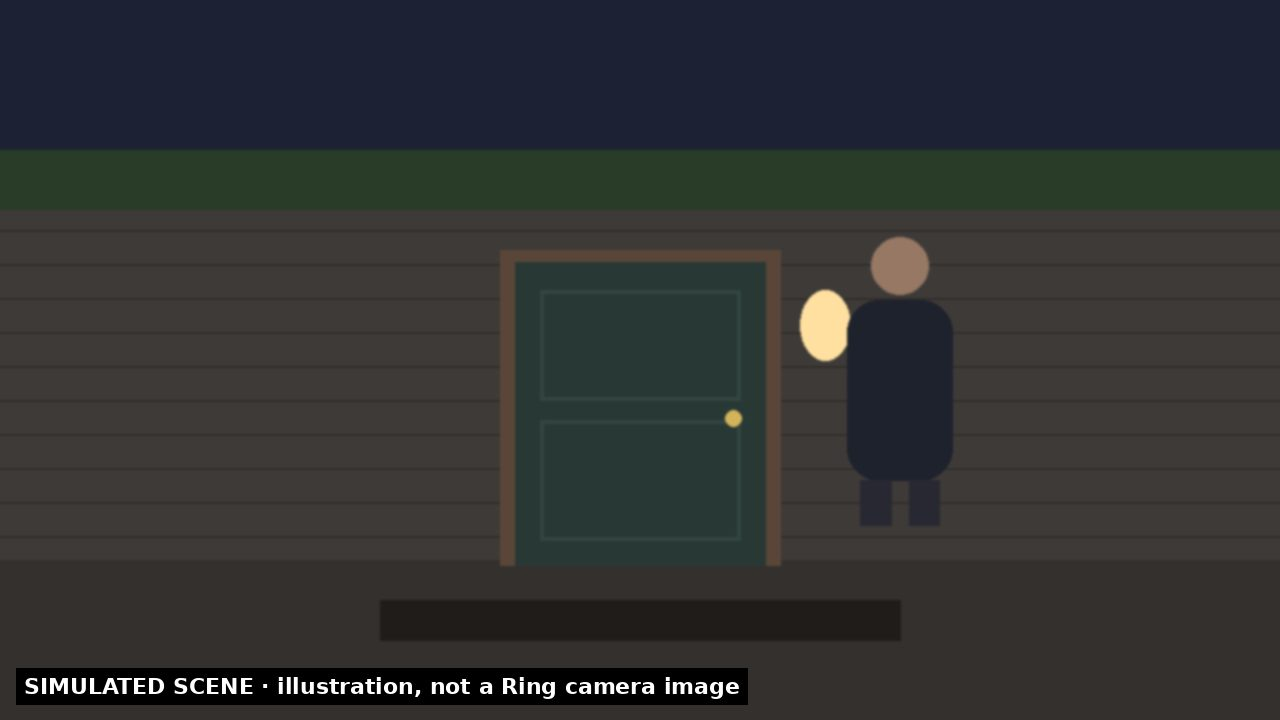
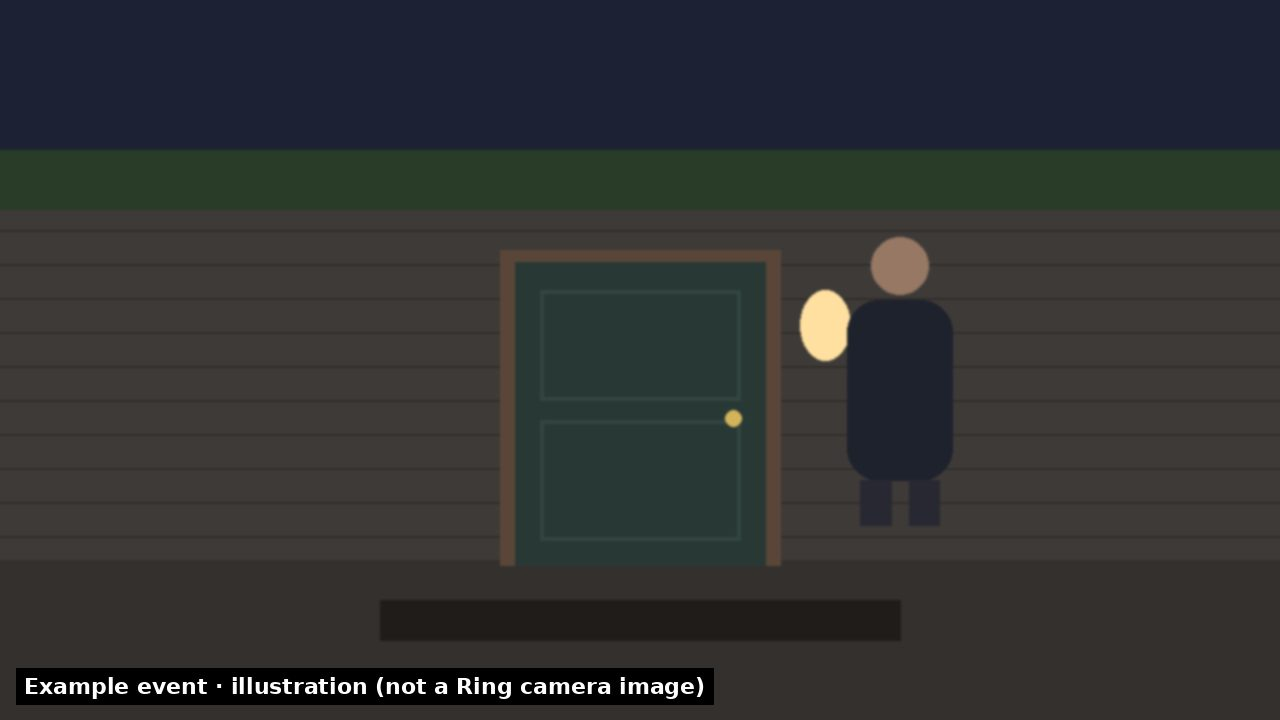
Illustrations relabelled 'Example event · illustration'; remove unused ones

Changed region(s): [[0.0312, 0.9167, 0.5938, 0.9778]]

diff --git a/scripts/gen-scenes.py b/scripts/gen-scenes.py
@@ -103,7 +103,7 @@ def finish(img, name, out_dir, night=False):
     img = img.filter(ImageFilter.GaussianBlur(1.2))  # soften to camera-ish
     d = ImageDraw.Draw(img)
     f = font(22)
-    label = "SIMULATED SCENE · illustration, not a Ring camera image"
+    label = "Example event · illustration (not a Ring camera image)"
     tw = d.textlength(label, font=f)
     d.rectangle([16, H - 52, 32 + tw, H - 16], fill=(0, 0, 0))
     d.text((24, H - 47), label, fill=(255, 255, 255), font=f)
